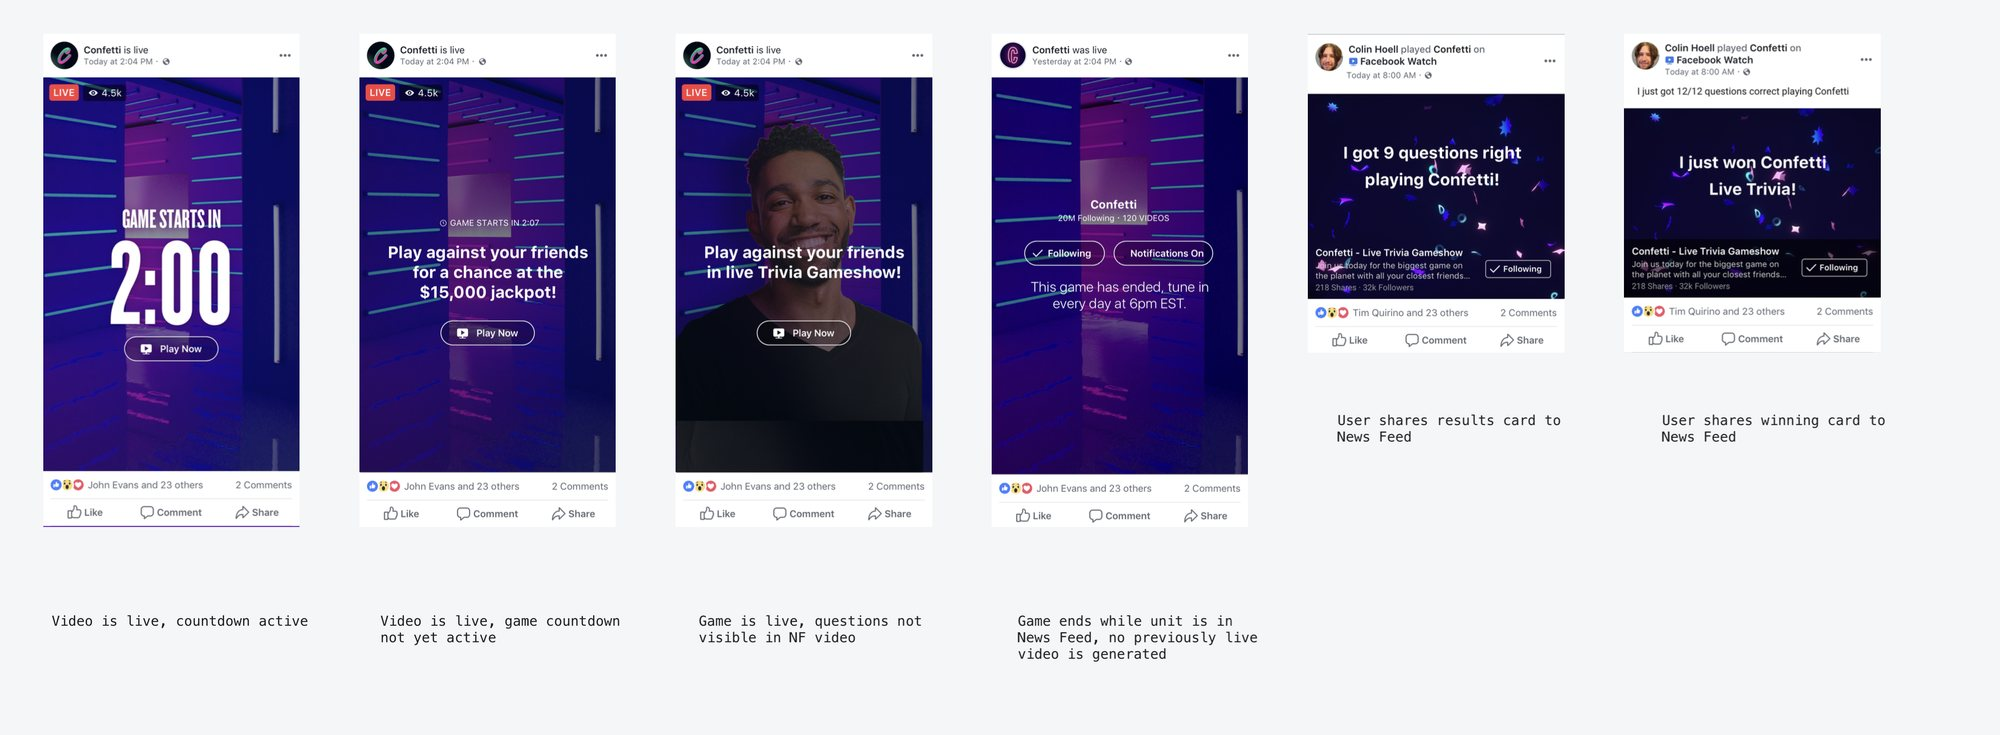
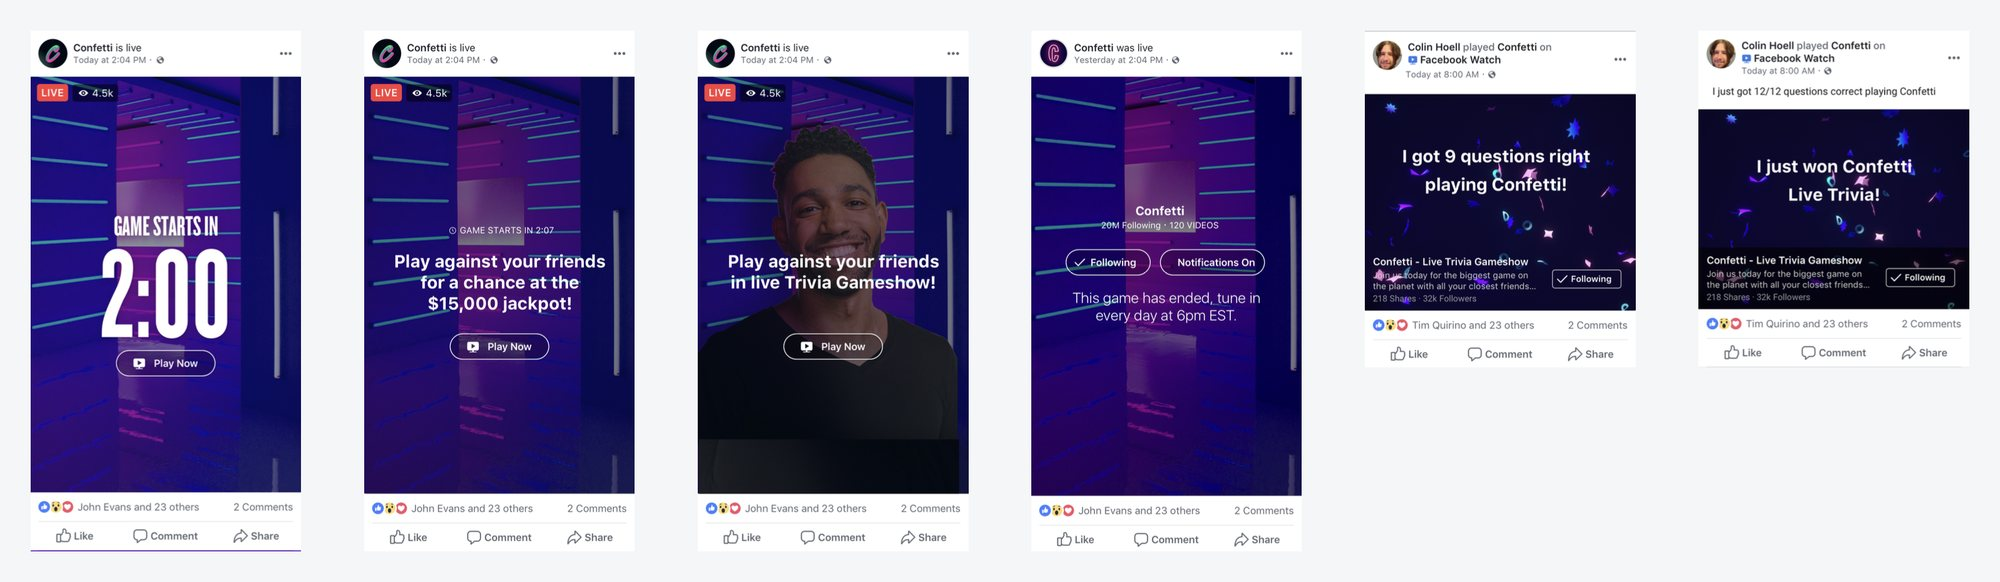
Add text-free state boards to Confetti
Every News Feed, before, during and after gameplay state from the design
boards, with titles and notes removed and the screens repacked into even
rows. Each board follows its section's close-up phone screens.

diff --git a/confetti/index.html b/confetti/index.html
@@ -68,7 +68,7 @@
         <div class="copy">
           <p>Most people found the game in News Feed, so the post changed with the show: a live countdown, an invite to play against friends, the game in progress with questions kept out of the feed, and a recap once it ended. Players could also share their results or a winning card.</p>
         </div>
-        <figure class="shot"><img src="assets/news-feed.jpg" width="2000" height="735" loading="lazy" alt="Six News Feed posts for Confetti, from the countdown and live game to the recap and shared results cards"></figure>
+        <figure class="shot"><img src="assets/news-feed.jpg" width="2000" height="582" loading="lazy" alt="Six News Feed posts for Confetti, from the countdown and live game to the recap and shared results cards"></figure>
       </section>
 
       <section>
@@ -78,6 +78,7 @@
           <p>The countdown started as soon as the video went live, giving people time to invite friends before the first question. Players agreed to the terms before playing for real money, and the facepile opened a sheet showing which friends were still in the running and which were just watching.</p>
         </div>
         <div class="phone-row is-quad"><figure><div class="phone is-classic"><div class="screen"><img src="assets/before-1.jpg" width="280" height="496" loading="lazy" alt="Live countdown: Confetti starts in 2:00, with comments below"></div></div><figcaption>Live countdown</figcaption></figure><figure><div class="phone is-classic"><div class="screen"><img src="assets/before-2.jpg" width="280" height="496" loading="lazy" alt="Before You Start terms screen with a Play Confetti button"></div></div><figcaption>Terms to play for money</figcaption></figure><figure><div class="phone is-classic"><div class="screen"><img src="assets/before-3.jpg" width="280" height="496" loading="lazy" alt="Friends Playing sheet, green dots on friends still in the running"></div></div><figcaption>Friends still in the running</figcaption></figure><figure><div class="phone is-classic"><div class="screen"><img src="assets/before-4.jpg" width="280" height="496" loading="lazy" alt="Neon countdown to the host, showing 2"></div></div><figcaption>Last ten seconds</figcaption></figure></div>
+        <figure class="shot"><img src="assets/before-all.jpg" width="2000" height="754" loading="lazy" alt="Every before-gameplay state: feed post, terms, countdowns, invite sheet, context card, friends playing, notification, and the keep-playing dialog"></figure>
       </section>
 
       <section>
@@ -87,6 +88,7 @@
           <p>Comments and reactions stepped aside while a question was up, and friends&rsquo; answers appeared live next to each option. A choice locked in once tapped, and the host bantered for a few seconds before the answer was revealed. Anyone who joined late could still play along for fun.</p>
         </div>
         <div class="phone-row is-quad"><figure><div class="phone is-classic"><div class="screen"><img src="assets/during-1.jpg" width="216" height="376" loading="lazy" alt="Host on screen with comments and reactions"></div></div><figcaption>Host on screen</figcaption></figure><figure><div class="phone is-classic"><div class="screen"><img src="assets/during-2.jpg" width="216" height="376" loading="lazy" alt="Question 1 of 12 with friends&rsquo; answers beside each option"></div></div><figcaption>Friends answer live</figcaption></figure><figure><div class="phone is-classic"><div class="screen"><img src="assets/during-3.jpg" width="216" height="376" loading="lazy" alt="Time&rsquo;s up, the chosen answer locked in blue"></div></div><figcaption>Choice locks in</figcaption></figure><figure><div class="phone is-classic"><div class="screen"><img src="assets/during-4.jpg" width="216" height="376" loading="lazy" alt="Yes, right answer, with the share of players on each option"></div></div><figcaption>Right answer</figcaption></figure></div>
+        <figure class="shot"><img src="assets/during-all.jpg" width="2000" height="561" loading="lazy" alt="Every during-gameplay state: questions, locked and revealed answers, right and wrong results, late-joiner dialogs, and playing for fun"></figure>
       </section>
 
       <section>
@@ -96,6 +98,7 @@
           <p>Winners got a celebration card and a prize to claim, and everyone else saw how they did against their friends. The host signed off with a reminder of the next game, and the end card kept the daily time front and center.</p>
         </div>
         <div class="phone-row is-trio"><figure><div class="phone is-classic"><div class="screen"><img src="assets/after-1.jpg" width="292" height="516" loading="lazy" alt="Awesome, you just won $1,230.45, with Share and Claim Prize buttons"></div></div><figcaption>Winner card</figcaption></figure><figure><div class="phone is-classic"><div class="screen"><img src="assets/after-2.jpg" width="292" height="516" loading="lazy" alt="Results card ranking friends by questions answered"></div></div><figcaption>Results among friends</figcaption></figure><figure><div class="phone is-classic"><div class="screen"><img src="assets/after-3.jpg" width="292" height="516" loading="lazy" alt="Today&rsquo;s game has ended, play weekdays at 6 PM ET, Claim Prize"></div></div><figcaption>End of broadcast</figcaption></figure></div>
+        <figure class="shot"><img src="assets/after-all.jpg" width="2000" height="755" loading="lazy" alt="Every after-gameplay state: answer reveal, celebration, winner and results cards, keyboard, host sign-off, end card, and no-winner variants"></figure>
       </section>
 
       <section>

diff --git a/progress/case-study-edits.md b/progress/case-study-edits.md
@@ -17,6 +17,7 @@ Branch `case-study-edits` (from `main`), worktree `.claude/worktrees/case-study-
 - Confetti hero is now the launch video (Figma Slides 9YmdOTvrakijTRBFpqVezi node 401:162). Pulled from the video embedded in ~/Downloads/Ryan Slides local.fig (videos/be35eb99...), re-encoded to H.264 1600x900 30fps, 7.7MB. The TV still it replaced was removed.
 - Confetti: A Live Show First is now the Live Trivia video (Figma YICBFWzEkZ78saTTyw9XES node 4023:131; from Ryan Slides local.fig videos/a4c81148...), cropped to the screen and shown in the site's phone frame. Phone stills re-cropped 1 to 5px tighter so no board background shows at the edges.
 - All projects: 40px between copy and the media below it (28px on phones), 32px between stacked media (.story rules in case-study.css).
+- Confetti: full state boards (Selected Works slides 56, 57, 101, 102; same source screenshots as the Ryan Slides local boards) with every title and note removed and the screens repacked into even rows. News Feed's board replaced; Before / During / After each get their board after the close-up phones.
 
 ## Open
 - Confetti: Links row is still [Link]. Copy is a draft for Ryan to review (A Live Show First, Before / During / After Gameplay, Confetti Pages were written from the boards; the slide text under Key Animations and Confetti Pages was a placeholder). Stats follow the launch video: 3 million daily viewers, $1 million in prizes, US / Canada / Mexico.
